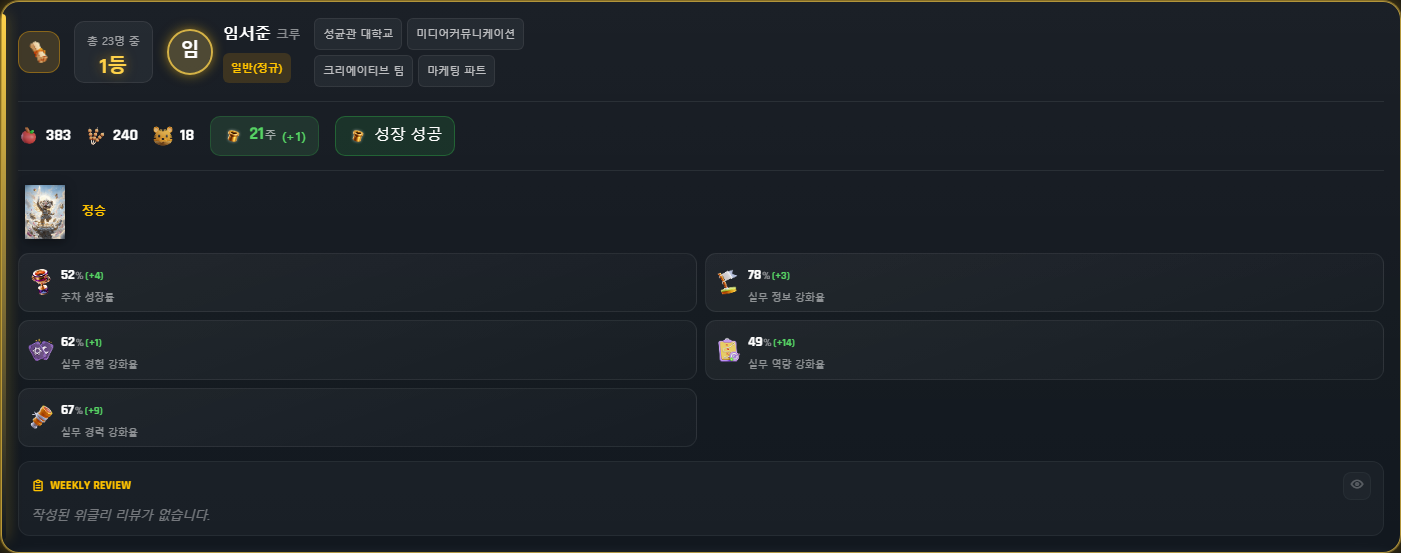
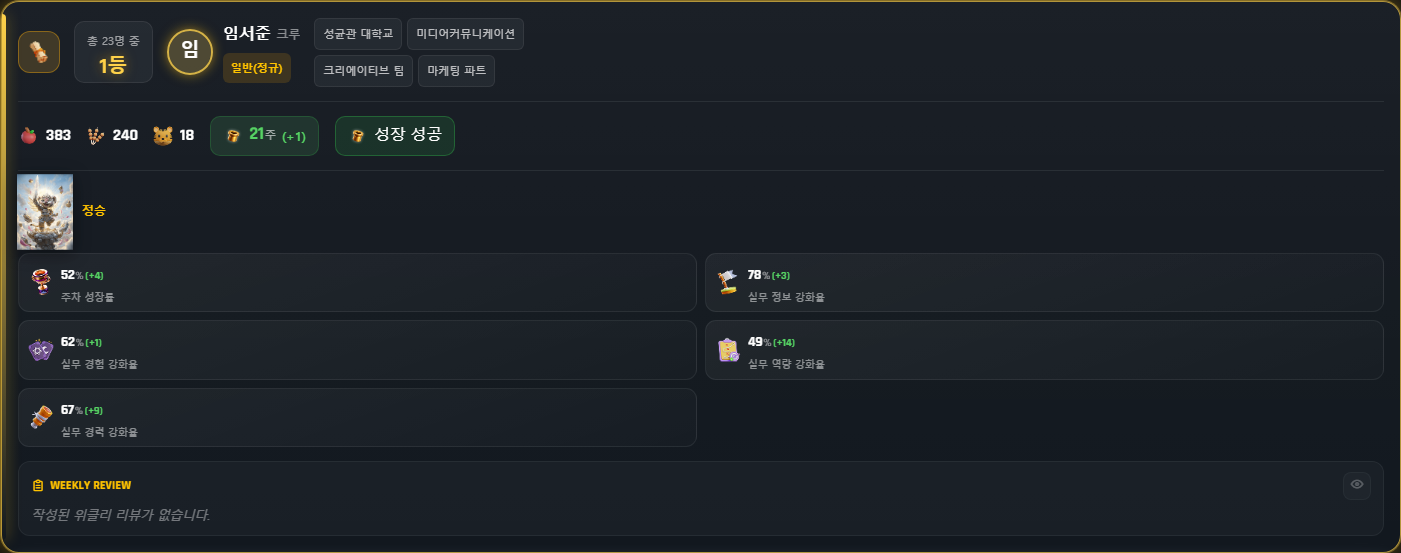
fix(weekly-league): 크루 카드 품계 실데이터 연동 + 품계 이미지 확대
품계명이 전원 "-" 로 뜨던 원인 = /api/weekly-league DTO 가 grade 를
placeholder(grade:'-', gradeLevel:10)로 하드코딩(미로드). user_grade_stats 를
실제로 조회하도록 수정.

- lib/weekly-league: org 로스터 대상 user_grade_stats(grade, grade_label) 배치 로드
  (gradeByUser 맵, champProfile 와 동일 best-effort 패턴). crewRankShowcase 의
  gradeLevel=grade(숫자 레벨 1~10) · grade=grade_label(품계명)로 매핑, 행 없으면 10/'-' 폴백.
  · /api/profile 과 동일 소스, cluster-3 와 동일 이미지 규약(1=정승, 레벨-인덱스).
  · route 는 aggregateWeeklyLeague 단순 호출 → direct 함수 결과 == HTTP 응답.
  · 라이브 집계(revalidate=0, force-dynamic) → snapshot 무관, 재계산 불필요.
- scss: 품계 이미지 레이아웃 박스(54px) 유지한 채 transform: scale(1.4)로 확대(식별성↑).

검증(실 DB): oranke 8e38d52f DB grade=5/label="정 4품" == API level=5/grade="정 4품";
encre/oranke/phalanx 모두 실품계 표시, 브라우저 실모드 10/10 크루 품계명 노출('-' 0건),
이미지 레벨-인덱스 정상(정2품→정 3 품.png). 데모 verify PASS.

Changed region(s): [[0.0, 0.3074, 0.0614, 0.4611]]

diff --git a/lib/weekly-league.ts b/lib/weekly-league.ts
@@ -487,6 +487,28 @@ export async function aggregateWeeklyLeague(
       console.warn("[weekly-league] champion educations 조회 실패", (err as Error)?.message ?? String(err));
     }
 
+    // 5-2) 품계(user_grade_stats) — Weekly Rank Showcase 크루 카드 좌하단 품계 이미지+명 SoT.
+    //   grade=숫자 레벨(정 N 품 이미지, 1~10), grade_label=품계명(예: 정승/정1품). /api/profile 과 동일 소스.
+    //   best-effort: 실패해도 카드 형태는 유지(폴백 gradeLevel=10 / grade='-'). org 로스터 한정(1행/유저).
+    const gradeByUser = new Map<string, { level: number; label: string }>();
+    try {
+      const { data: gs } = await db
+        .from("user_grade_stats")
+        .select("user_id, grade, grade_label")
+        .in("user_id", orgUserIds);
+      for (const g of gs || []) {
+        const uid = (g as { user_id: string }).user_id;
+        const lvlRaw = Number((g as { grade?: number | string | null }).grade);
+        const label = (g as { grade_label?: string | null }).grade_label ?? null;
+        gradeByUser.set(uid, {
+          level: Number.isFinite(lvlRaw) && lvlRaw >= 1 && lvlRaw <= 10 ? lvlRaw : 10,
+          label: label && label.trim() ? label.trim() : "-",
+        });
+      }
+    } catch (err) {
+      console.warn("[weekly-league] 품계(user_grade_stats) 조회 실패", (err as Error)?.message ?? String(err));
+    }
+
     // week_start_date 별 인덱싱.
     const statusByWeek = new Map<string, Array<{ user_id: string; status: string }>>();
     for (const r of statusRows) {
@@ -870,13 +892,16 @@ export async function aggregateWeeklyLeague(
           a.p.user_id.localeCompare(b.p.user_id),
       );
       const crewTotal = crewBase.length;
-      const crewRankShowcase: CrewRankShowcase[] = crewBase.map((x, i) => ({
+      const crewRankShowcase: CrewRankShowcase[] = crewBase.map((x, i) => {
+        // 품계 — user_grade_stats(위 gradeByUser) 소스. 없으면 안전 폴백(10/'-').
+        const g = gradeByUser.get(x.p.user_id);
+        return {
         userId: x.p.user_id,
         weekId: week.id,
         rank: i + 1,
         totalRankCount: crewTotal,
-        gradeLevel: 10, // TODO(backend): user_grade_stats.grade
-        grade: "-",
+        gradeLevel: g?.level ?? 10, // user_grade_stats.grade(숫자 레벨)
+        grade: g?.label ?? "-",     // user_grade_stats.grade_label(품계명)
         profileImage: x.c.profileImage ?? null,
         name: x.c.name,
         className: x.c.className,
@@ -898,7 +923,8 @@ export async function aggregateWeeklyLeague(
         competencyRate: 0, competencyRateDelta: 0,
         careerRate: 0, careerRateDelta: 0,
         weeklyReview: null, // TODO(backend): cluster-4-card weekly review
-      }));
+        };
+      });
 
       return {
         id: week.id,

diff --git a/app/(host)/assets/scss/components/_weekly-detail.scss b/app/(host)/assets/scss/components/_weekly-detail.scss
@@ -2174,6 +2174,10 @@
         width: 54px;
         height: 54px;
         object-fit: contain;
+        // 레이아웃 박스(54px)는 그대로 두고 이미지만 ~1.4배 확대(품계 식별성↑).
+        // transform 은 리플로우가 없어 카드/컬럼 크기에 영향을 주지 않는다.
+        transform: scale(1.4);
+        transform-origin: center;
         filter: drop-shadow(0 2px 6px rgba(0, 0, 0, 0.45));
       }
       &-label {
